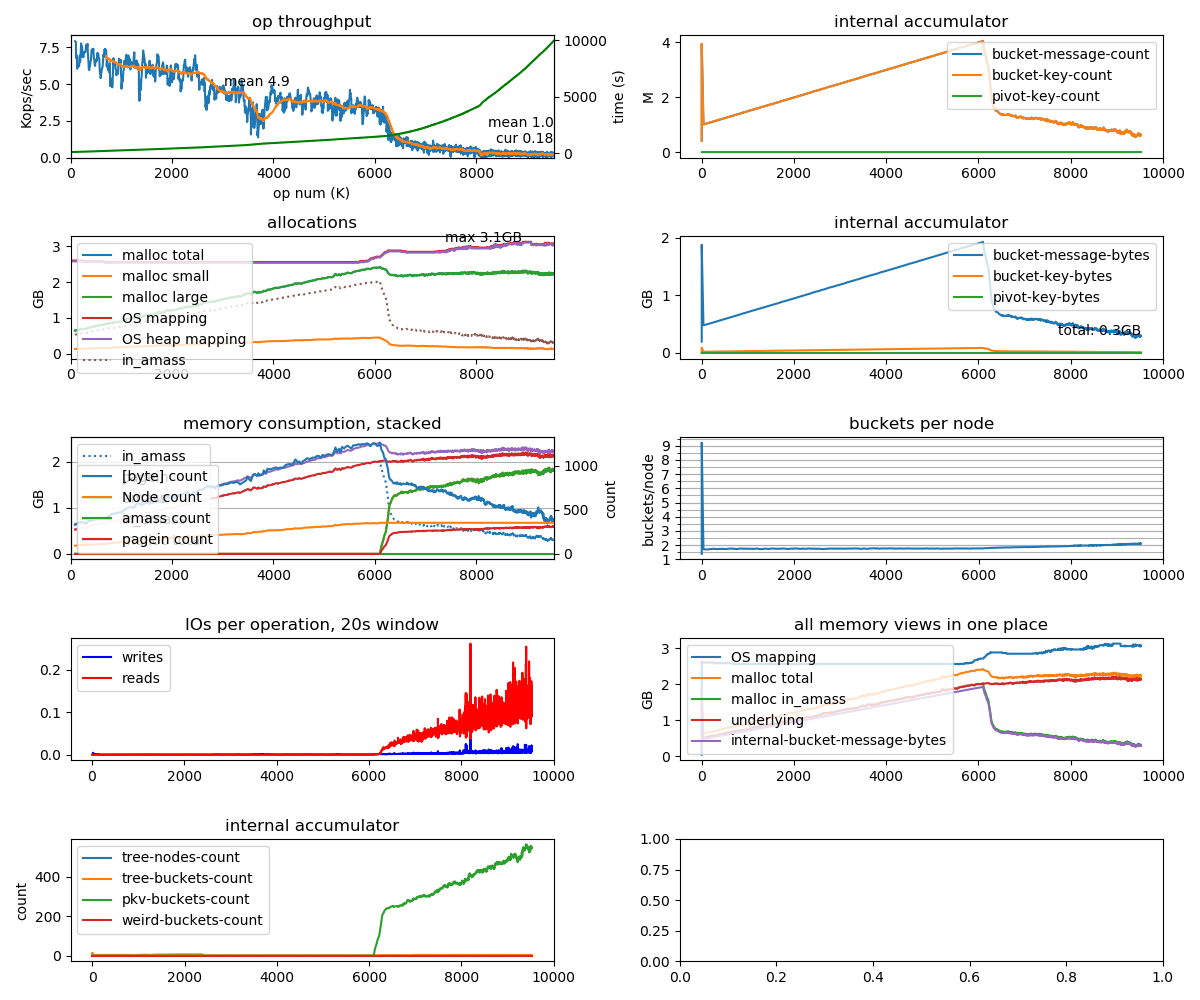
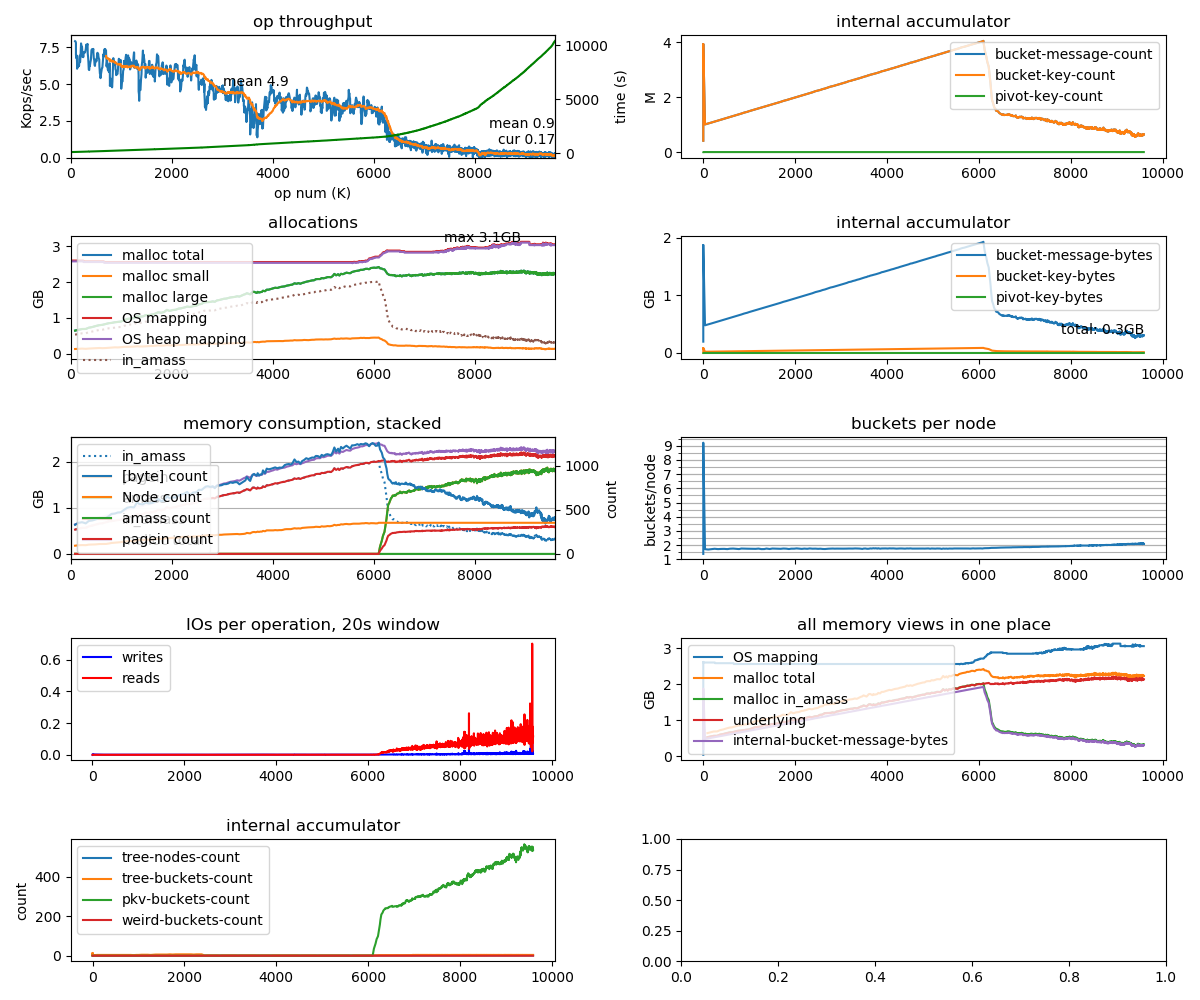
add debugaccumulator, iostats, and underlying_allocations debug tools for chasing down memory leaks

diff --git a/framework/Framework.cpp b/framework/Framework.cpp
@@ -51,6 +51,24 @@ void fail(std::string err)
 constexpr int MAX_WRITE_REQS_OUT = 8;
 
 namespace MainDiskIOHandler_Compile {
+  class IOStats {
+    public:
+      uint64_t nReadReqs_started;
+      uint64_t nReadReqs_completed;
+      uint64_t nWriteReqs_started;
+      uint64_t nWriteReqs_completed;
+
+    void display_report() {
+      printf("iostats %ld reads_started %ld reads_completed %ld writes_started %ld writes_completed\n",
+        nReadReqs_started, nReadReqs_completed, nWriteReqs_started, nWriteReqs_completed);
+    }
+  };
+  static IOStats iostats;
+
+  void iostats_display_report() {
+    iostats.display_report();
+  }
+
 #if USE_DIRECT
   uint8_t *aligned_copy(uint8_t* buf, size_t len, size_t *aligned_len) {
     uint8_t *aligned_bytes;
@@ -153,6 +171,7 @@ namespace MainDiskIOHandler_Compile {
             fail("write did not write all bytes");
           }
           done = true;
+          iostats.nWriteReqs_completed += 1;
           nWriteReqsOut--;
         } else if (status != EINPROGRESS) {
           fail("aio_error returned that write has failed");
@@ -173,7 +192,9 @@ namespace MainDiskIOHandler_Compile {
     auto t1 = chrono::high_resolution_clock::now();
     #endif
 
+    iostats.nReadReqs_started += 1;
     ssize_t count = pread(fd, res, len, addr);
+    iostats.nReadReqs_completed += 1;
 
     #ifdef LOG_QUERY_STATS
     auto t2 = chrono::high_resolution_clock::now();
@@ -250,6 +271,7 @@ namespace MainDiskIOHandler_Compile {
   {
     size_t len = bytes.size();
 
+    iostats.nWriteReqs_started += 1;
     malloc_accounting_set_scope("DiskIOHandler::write.WriteTask");
     shared_ptr<WriteTask> writeTask { new WriteTask(fd, addr, &bytes.at(0), len) };
     malloc_accounting_default_scope();
@@ -454,6 +476,10 @@ void Application::crash() {
 
 void Application::EvictEverything() {
   handle_EvictEverything(k, hs, io);
+}
+
+void Application::DebugAccumulator() {
+  handle_DebugAccumulator(k, hs, io);
 }
 
 void Application::CountAmassAllocations() {
@@ -764,35 +790,93 @@ void __default::set_amass_mode(bool b) {
 }
 
 namespace AllocationReport_Compile {
-static std::unordered_map<uint64_t, uint64_t> sptr_to_len;
 
-void __default::start() {
+class Observation {
+private:
+  std::set<uint64_t> observed_ptrs;
+  std::unordered_map<uint64_t, uint64_t> sptr_to_len;
+  std::unordered_map<uint64_t, std::set<uint64_t>> sptr_to_ref_set;
+  std::unordered_map<uint64_t, uint64_t> sptr_to_used_sizes;
+  void visit_uptr(uint64 noderef, const DafnySequence<uint8>& seqref);
+
+public:
+  void start();
+  void sampleNode(uint64 ref, std::shared_ptr<NodeImpl_Compile::Node> node);
+  void stop();
+};
+static Observation g_observation;
+
+void Observation::start() {
   printf("allocationreport start\n");
   sptr_to_len.clear();
+  sptr_to_ref_set.clear();
+  sptr_to_used_sizes.clear();
 }
 
-#if TRACK_DOWN_UNDERLYING_ALLOCATIONS
-static void visit_uptr(std::set<uint64_t>* observed_ptrs, const DafnySequence<uint8>& ref) {
-  uint64_t uptr = (uint64_t) ref.sptr.get();
-  observed_ptrs->insert(uptr);
-  uint64_t underlying_size = ref.dbg_underlying_len;
+void Observation::stop() {
+  uint64_t total_underlying = 0;
+  for (auto it : sptr_to_len) {
+    total_underlying += it.second;
+  }
+  printf("allocationreport stop underyling_count %lu total_underlying %lu\n",
+       sptr_to_len.size(), total_underlying);
+
+  for (auto it : sptr_to_ref_set) {
+    printf("allocationreport refset ref %lu refd by %lu noderefs\n  ",
+        it.first, it.second.size());
+    for (auto it2 : it.second) {
+       printf("  %lu", it2);
+    }
+    printf("\n");
+  }
+  
+  for (auto it : sptr_to_used_sizes) {
+    size_t used = sptr_to_len[it.first];
+    size_t refcount = sptr_to_ref_set[it.first].size();
+    printf("allocationreport ref_used ref %lu underlying %lu used_total %lu refd_by_nodes %lu\n",
+        it.first, used, it.second, refcount);
+  }
+}
+
+void Observation::visit_uptr(uint64 noderef, const DafnySequence<uint8>& seqref) {
+  uint64_t uptr = (uint64_t) seqref.sptr.get();
+  observed_ptrs.insert(uptr);
+  uint64_t seq_size = seqref.len;
+  uint64_t underlying_size = seqref.dbg_underlying_len;
   if (sptr_to_len.find(uptr) != sptr_to_len.end()) {
     assert(sptr_to_len.at(uptr) == underlying_size);
   } else {
     sptr_to_len.insert(std::make_pair(uptr, underlying_size));
   }
+
+  auto emplaced = sptr_to_ref_set.emplace(uptr, std::set<uint64_t>{});
+  emplaced.first->second.insert(noderef);
+
+  auto used_emplaced = sptr_to_used_sizes.emplace(uptr, 0);
+  used_emplaced.first->second += seq_size;
 }
 
-void __default::sampleNode(uint64 ref, std::shared_ptr<NodeImpl_Compile::Node> node) {
+void Observation::sampleNode(uint64 noderef, std::shared_ptr<NodeImpl_Compile::Node> node) {
   const char* type = "unpossible";
   int count = -1;
 
-  std::set<uint64_t> observed_ptrs;
-  for (size_t i=0; i<node->pivotTable.len; i++) {
-    DafnySequence<uint8> pivot = node->pivotTable.start[i];
-    visit_uptr(&observed_ptrs, pivot);
+  observed_ptrs.clear();
+
+  // Print the children
+  if (node->children.is_Option_Some()) {
+    auto children = node->children.dtor_value();
+    for (size_t i=0; i<children.len; i++) {
+      printf("Node %lu -> child %lu\n", noderef, children.start[i]);
+    }
   }
 
+  // Keys in the pivot table
+  for (size_t i=0; i<node->pivotTable.len; i++) {
+    DafnySequence<uint8> pivot = node->pivotTable.start[i];
+    visit_uptr(noderef, pivot);
+  }
+
+  // Keys & messages in buckets
   for (size_t i=0; i<node->buckets.len; i++) {
     std::shared_ptr<BucketImpl_Compile::MutBucket> bucket = node->buckets.start[i];
 
@@ -803,14 +887,14 @@ void __default::sampleNode(uint64 ref, std::shared_ptr<NodeImpl_Compile::Node> n
       DafnySequence<DafnySequence<uint8>> keys = kvl.keys;
       for (size_t i=0; i<keys.len; i++) {
         DafnySequence<uint8> key = keys.start[i];
-        visit_uptr(&observed_ptrs, key);
+        visit_uptr(noderef, key);
       }
       DafnySequence<ValueMessage_Compile::Message> messages = kvl.messages;
       for (size_t i=0; i<messages.len; i++) {
         auto message = messages.start[i];
         assert(message.is_Message_Define());
         DafnySequence<uint8> value_message = message.dtor_value();
-        visit_uptr(&observed_ptrs, value_message);
+        visit_uptr(noderef, value_message);
       }
       type = "kvl";
     } else if ((((bucket->format)).is_BucketFormat_BFPkv())) {
@@ -818,32 +902,38 @@ void __default::sampleNode(uint64 ref, std::shared_ptr<NodeImpl_Compile::Node> n
       auto pkv = bucket->pkv;
       for (size_t i=0; i<pkv.keys.offsets.len; i++) {
         auto key = PackedKV_Compile::__default::GetKey(pkv, i);
-        visit_uptr(&observed_ptrs, key);
+        visit_uptr(noderef, key);
       }
       for (size_t i=0; i<pkv.messages.offsets.len; i++) {
         auto message = PackedKV_Compile::__default::GetMessage(pkv, i);
         assert(message.is_Message_Define());
         DafnySequence<uint8> value_message = message.dtor_value();
-        visit_uptr(&observed_ptrs, value_message);
+        visit_uptr(noderef, value_message);
       }
     }
   }
 
   count = observed_ptrs.size();
-  printf("allocationreport ref %lu type %s observed_sptr_count %d\n", ref, type, count);
+  printf("allocationreport noderef %lu type %s observed_sptr_count %d\n", noderef, type, count);
 }
-#else // TRACK_DOWN_UNDERLYING_ALLOCATIONS
-void __default::sampleNode(uint64 ref, std::shared_ptr<NodeImpl_Compile::Node> node) {
-}
+
+#define TRACK_DOWN_UNDERLYING_ALLOCATIONS 1
+void __default::start() {
+#if TRACK_DOWN_UNDERLYING_ALLOCATIONS
+  g_observation.start();
 #endif // TRACK_DOWN_UNDERLYING_ALLOCATIONS
+}
+
+void __default::sampleNode(uint64 noderef, std::shared_ptr<NodeImpl_Compile::Node> node) {
+#if TRACK_DOWN_UNDERLYING_ALLOCATIONS
+  g_observation.sampleNode(noderef, node);
+#endif // TRACK_DOWN_UNDERLYING_ALLOCATIONS
+}
 
 void __default::stop() {
-  uint64_t total_underlying = 0;
-  for (auto it : sptr_to_len) {
-    total_underlying += it.second;
-  }
-  printf("allocationreport stop underyling_count %lu total_underlying %lu\n",
-       sptr_to_len.size(), total_underlying);
+#if TRACK_DOWN_UNDERLYING_ALLOCATIONS
+  g_observation.stop();
+#endif // TRACK_DOWN_UNDERLYING_ALLOCATIONS
 }
 
 } // AllocationReport_Compile

diff --git a/ycsb/YcsbMain.cpp b/ycsb/YcsbMain.cpp
@@ -76,6 +76,17 @@ inline void performYcsbUpdate(DB db, ycsbc::CoreWorkload& workload, bool verbose
     db.update(txupdate.key, value);
 }
 
+static int i=0;
+template< class DB >
+void periodicReport(DB db) {
+    malloc_accounting_status();
+    MainDiskIOHandler_Compile::iostats_display_report();
+    i += 1;
+    if (i%10 == 0) {
+      db.debugAccumulator();
+    }
+}
+
 template< class DB >
 void ycsbLoad(DB db, ycsbc::CoreWorkload& workload, int num_ops, bool verbose) {
     cerr << db.name << " [step] loading (num ops: " << num_ops << ")" << endl;
@@ -91,7 +102,8 @@ void ycsbLoad(DB db, ycsbc::CoreWorkload& workload, int num_ops, bool verbose) {
             clock_op_completed - clock_last_report).count() > report_interval_ms) {
 
             cout << db.name << " (completed " << i << " ops)" << endl;
-            malloc_accounting_status();
+            periodicReport(db);
+
             auto report_completed = chrono::steady_clock::now();
             clock_last_report = report_completed;
         }
@@ -121,6 +133,11 @@ void print_summary(HDRHistQuantiles& summary, const string db_name, const string
             std::cout << db_name << "\tlatency_ccdf\t" << op << "\t" << summary_el->quantile << "\t" << summary_el->upper_bound << std::endl;
         }
     }
+}
+
+bool importantStep(uint64_t i) {
+  return false;
+  // return (i%10000==0) || (i==59367 || i==59368 || i==74652 || i==74653 || i==90107 || i==90108 || i == 102197 || i == 102198);
 }
 
 template< class DB >
@@ -171,7 +188,7 @@ void ycsbRun(
 #define HACK_PROBE_PERIODIC 1
 #if HACK_PROBE_PERIODIC
 // An experiment to periodically study how the kv allocations are distributed
-    int probe_interval_ms = 50000;
+    int probe_interval_ms = 10000;
     int next_probe_ms = probe_interval_ms;
 #endif // HACK_PROBE_PERIODIC
 
@@ -217,8 +234,12 @@ void ycsbRun(
         }
 #endif // HACK_EVICT_PERIODIC
 #if HACK_PROBE_PERIODIC
-        if (elapsed_ms >= next_probe_ms) {
-            printf("probe.");
+        if (importantStep(i)) {
+          printf("****************** Action! %d\n", i);
+        }
+
+        if (elapsed_ms >= next_probe_ms || importantStep(i)) {
+            //printf("probe.\n");
             db.CountAmassAllocations();
             next_probe_ms += probe_interval_ms;
         }
@@ -245,7 +266,7 @@ void ycsbRun(
             auto sync_completed = chrono::steady_clock::now();
 
             cout << db.name << " [op] sync (completed " << i << " ops)" << endl;
-            malloc_accounting_status();
+            periodicReport(db);
 
             #ifdef _YCSB_VERIBETRFS
             #ifdef LOG_QUERY_STATS
@@ -329,6 +350,12 @@ public:
         app.EvictEverything();
     }
 
+    inline void debugAccumulator() {
+        printf("debug-accumulator start\n");
+        app.DebugAccumulator();
+        printf("debug-accumulator finish\n");
+    }
+
     inline void CountAmassAllocations() {
         app.CountAmassAllocations();
     }
@@ -376,6 +403,10 @@ public:
 
     inline void evictEverything() {
     }
+
+    inline void debugAccumulator() {
+    }
+
 };
 
 const string RocksdbFacade::name = string("rocksdb");
@@ -404,6 +435,10 @@ public:
     }
 
     inline void evictEverything() {
+        asm volatile ("nop");
+    }
+
+    inline void debugAccumulator() {
         asm volatile ("nop");
     }
 

diff --git a/framework/BundleWrapper.h b/framework/BundleWrapper.h
@@ -26,6 +26,7 @@ namespace UI_Compile {
 std::pair<Constants, Variables> handle_InitState();
 DafnyMap<uint64, DafnySequence<uint8>> handle_Mkfs();
 void handle_EvictEverything(Constants k, Variables hs, std::shared_ptr<MainDiskIOHandler_Compile::DiskIOHandler> io);
+void handle_DebugAccumulator(Constants k, Variables hs, std::shared_ptr<MainDiskIOHandler_Compile::DiskIOHandler> io);
 void handle_CountAmassAllocations(Constants k, Variables hs, std::shared_ptr<MainDiskIOHandler_Compile::DiskIOHandler> io);
 uint64 handle_PushSync(Constants, Variables, std::shared_ptr<MainDiskIOHandler_Compile::DiskIOHandler>);
 std::pair<bool, bool> handle_PopSync(Constants, Variables, std::shared_ptr<MainDiskIOHandler_Compile::DiskIOHandler>, uint64);

diff --git a/framework/BundleWrapper.cpp b/framework/BundleWrapper.cpp
@@ -26,6 +26,11 @@ void handle_EvictEverything(Constants k, Variables hs, std::shared_ptr<MainDiskI
   __default::handleEvictEverything(*k.k, hs.hs, io);
 }
 
+void handle_DebugAccumulator(Constants k, Variables hs, std::shared_ptr<MainDiskIOHandler_Compile::DiskIOHandler> io)
+{
+  __default::handleDebugAccumulator(*k.k, hs.hs, io);
+}
+
 void handle_CountAmassAllocations(Constants k, Variables hs, std::shared_ptr<MainDiskIOHandler_Compile::DiskIOHandler> io)
 {
   __default::handleCountAmassAllocations(*k.k, hs.hs, io);

diff --git a/framework/Framework.h b/framework/Framework.h
@@ -197,6 +197,8 @@ namespace MainDiskIOHandler_Compile {
     std::map<uint64, std::shared_ptr<WriteTask>> writeReqs;
     std::map<uint64, ReadTask> readReqs;
   };
+
+  void iostats_display_report();
 }
 
 namespace NativeBenchmarking_Compile {

diff --git a/framework/Application.h b/framework/Application.h
@@ -54,6 +54,7 @@ public:
 
   void Sync();
   void EvictEverything();
+  void DebugAccumulator();
   void CountAmassAllocations();
   void Insert(ByteString key, ByteString val);
   ByteString Query(ByteString key);
